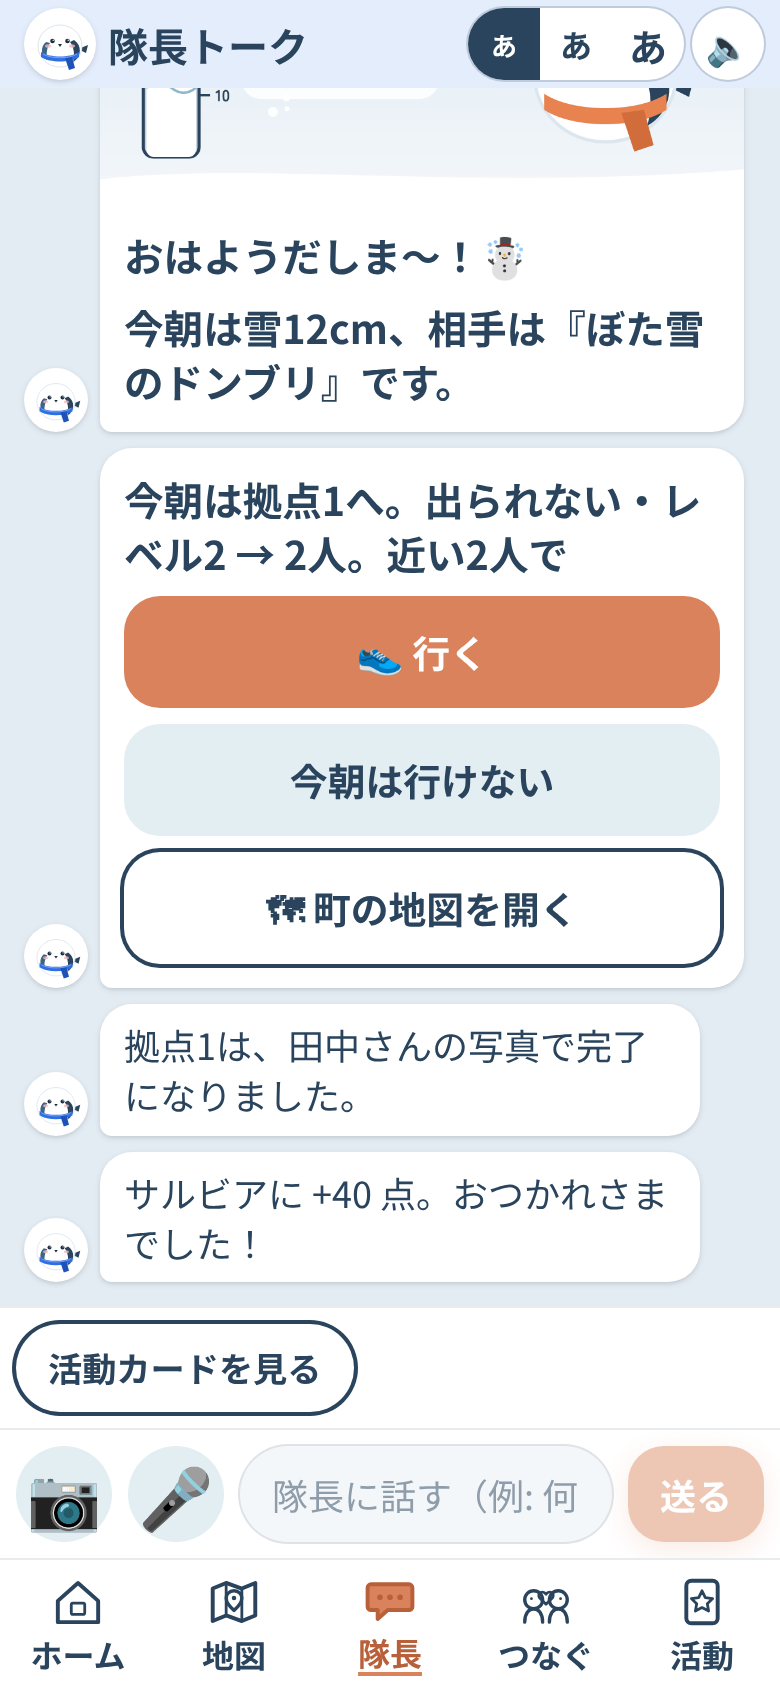
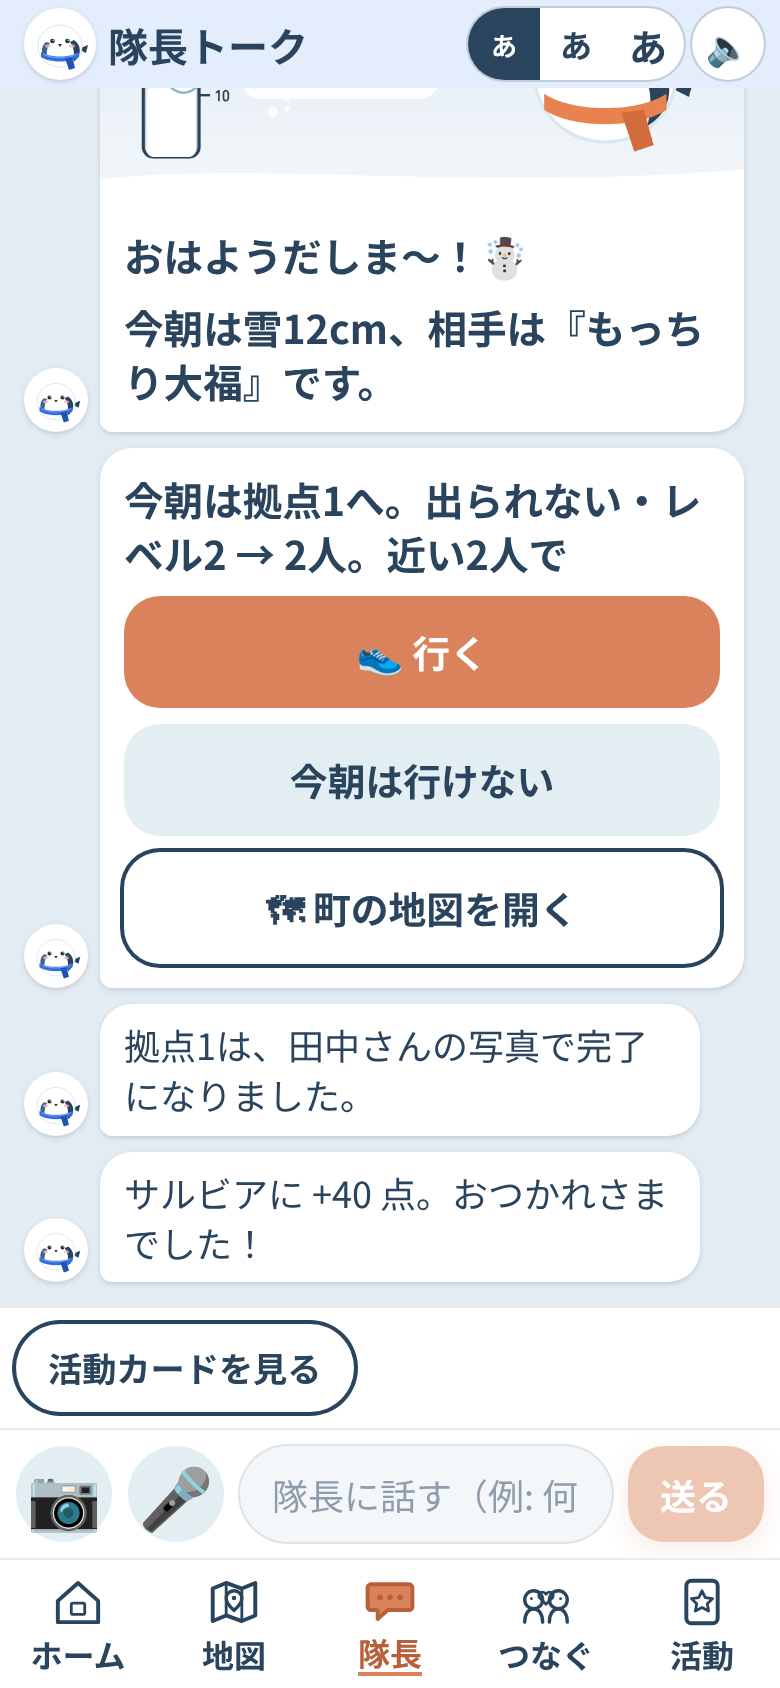
README の画面を、今朝の雪の名前（spec v1.30『もっちり大福』）で撮り直し
Claude-Session: https://claude.ai/code/session_016s2e48WdfmDV4F6QawuGpM

Changed region(s): [[0.1538, 0.2156, 0.5846, 0.2464], [0.7385, 0.1848, 0.8923, 0.2156]]

diff --git a/README.md b/README.md
@@ -46,7 +46,7 @@
 | 時刻 | 何が起きるか | 誰が・何をするか |
 |---|---|---|
 | 冬の初め | 小林さんは LINE でログインして30秒で登録。「おまかせ（家の人は雪かきできない）」「玄関前」を選ぶ。娘さんは「家族の代わりに登録」で連携コードを入れる | 登録は1回だけ。毎朝の返事は要らない |
-| 前夜 21:00 | 予報が 5cm 以上なら、隊長が予告と「今朝の雪の名前」（例『ぼた雪のドンブリ』）を届ける | なし |
+| 前夜 21:00 | 予報が 5cm 以上なら、隊長が予告と「今朝の雪の名前」（例『もっちり大福』）を届ける | なし |
 | 6:30 | きのう 6時〜今朝 6時に 10cm 以上積もっていれば、小林さんの家が自動で「雪かき待ち」に。隊長（Claude）が家ごとの人数・担当・理由を決め、3チームに配信。田中さんの隊長トークと端末に「今朝は拠点7へ。出られない・レベル2 → 2人」 | 田中さん: 「行く」を1タップ |
 | 6:40〜 | 地図のマスがチーム色に変わる。人手が足りない家は赤く点滅し、300m → 600m → 1km の順に「10分でもOK」の小タスクつきで近所へ呼びかける。足りなければ町内会役員役のサポーターへ | 誰でも: 「10分だけ助けに行く」 |
 | 現地 | 玄関前の雪をどけて、道路側から写真1枚。Claude が「雪がどけられて通れるか・凍っていないか」を確かめ、残った雪の断面から深さを推定。判断できない写真は「報告として受け付け」、本人が「それでも完了にする」も選べる（AI を最終判定者にしない） | 田中さん: 「終わりました（写真）」 |
